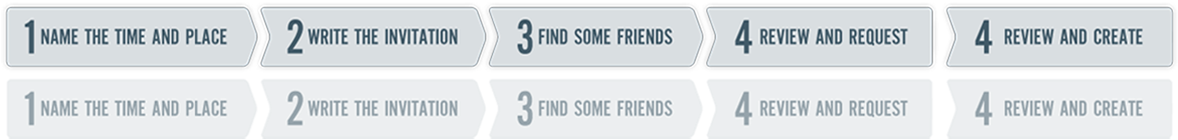
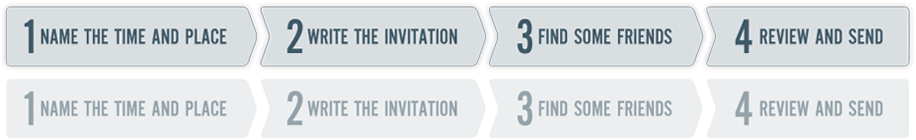
Updated party creation nav. Made nav images into links

Changed region(s): [[0.0, 0.0286, 1.0, 0.4857], [0.0, 0.6571, 0.9782, 0.9143]]

diff --git a/static/css/winedora.css b/static/css/winedora.css
@@ -449,56 +449,91 @@ table .row-label-bold {
     background: url('../img/btn_pie_from225.png') no-repeat right top;
  }
  
-.menu_wrap.partycrumb ul.nav, .menu_wrap.partycrumb ul.nav li {
-  /*margin: 10px 0;*/
-  height: 76px;
+ .partycrumb {
+  text-align: center;
+  padding-top: 20px;
 }
 
-/*.menu_wrap.partycrumb ul.nav li a { 
-  padding: 100px 90px;
+.partycrumb ul.nav li {
+  display: inline;
+  margin-right: 20px;
+}
+
+.partycrumb.main {
+  padding-top: 0;
+}
+
+/* shop */
+
+.partycrumb.main ul.nav, .partycrumb.main ul.nav li {
+    height: 76px;
+    margin: 0;
+    padding: 0;
+}
+
+.partycrumb.main ul.nav li { 
+  display: inline-block;
+}
+
+.partycrumb.main ul.nav li a { 
+  padding: 1px 20px 20px 20px;
   margin-top: -2px;
 }
-*/
-/*
-.partycrumb li {
-  height: 76px;
-}
-*/
-.party-add {
+
+#party_add {
   background: url('../img/create_party_nav.png') no-repeat 0 -72px; 
   width: 257px;
 }
-.party-write-invitation {
+#party_add a{
+  padding: 0px 130px 50px 126px;
+}
+#party_write_invitation {
   background: url('../img/create_party_nav.png') no-repeat -261px -72px; 
   width: 226px;
 }
-.party-invite-friends {
+#party_write_invitation a {
+  padding: 0px 110px 50px 115px;
+}
+#party_invite_friends {
   background: url('../img/create_party_nav.png') no-repeat -489px -72px; 
   width: 215px;
+}
+#party_invite_friends a{
+  padding: 0px 110px 50px 105px;
 }
 .party-review-request {
   background: url('../img/create_party_nav.png') no-repeat -706px -72px; 
   width: 227px;
 }
-.party-review-create {
-  background: url('../img/create_party_nav.png') no-repeat -946px -72px; 
-  width: 227px;
+#party_review_create {
+  background: url('../img/create_party_nav.png') no-repeat -706px -72px; 
+  width: 204px;
+}
+#party_review_create a{
+  padding: 0px 102px 50px 102px;
 }
 
-.party-add.active {
-  background-position: 0 0;
+
+#party_add a:hover, 
+#party_add.active {
+  background: url('../img/create_party_nav.png') no-repeat 0 0;
 }
-.party-write-invitation.active {
-  background-position: -261px 0; 
+#party_write_invitation a:hover, 
+#party_write_invitation.active {
+  background: url('../img/create_party_nav.png') no-repeat -261px 0; 
 }
-.party-invite-friends.active {
-  background-position: -489px 0; 
+#party_invite_friends a:hover, 
+#party_invite_friends.active {
+  background: url('../img/create_party_nav.png') no-repeat -489px 0; 
 }
-.party-review-request.active {
-  background-position: -706px 0; 
+#party_review_request a:hover, 
+#party_review_request.active {
+  background: url('../img/create_party_nav.png') no-repeat -706px 0; 
 }
-.party-review-create.active {
-  background-position: -946px 0; 
+#party_review_create a:hover, 
+#party_review_create.active {
+  /*background-position: -946px 0; */
+  background: url('../img/create_party_nav.png') no-repeat -706px 0; 
 }
 
 /*

diff --git a/main/templates/main/party_review_request.html b/main/templates/main/party_review_request.html
@@ -37,16 +37,12 @@
 {% endblock header %}
 
 {% block content %}
-  <div class="menu_wrap main partycrumb">
+  <div class="partycrumb main">
     <ul class="nav">
-      <li class="party-add">&nbsp;</li>
-      <li class="party-write-invitation">&nbsp;</li>
-      <li class="party-invite-friends">&nbsp;</li>
-      {% if pro or user.get_profile.events_manager %}
-        <li class="party-review-create active">&nbsp;</li>
-      {% else %}
-        <li class="party-review-request active">&nbsp;</li>
-      {% endif %}
+      <li id="party_add"><a href="{% url party_add party.id %}" title="Edit Party details"></a></li>
+      <li id="party_write_invitation"><a href="{% url party_write_invitation party.id %}" title="Customize Invitations"></a></li>
+      <li id="party_invite_friends"><a href="{% url party_find_friends party.id %}" title="Find some friends"></a></li>
+      <li id="party_review_create" class="active">&nbsp;</li>
     </ul>
   </div>
   <div class="container" data-spy="scroll" data-offset="50" data-target=".subnav">

diff --git a/main/templates/main/party_find_friends.html b/main/templates/main/party_find_friends.html
@@ -20,16 +20,12 @@
 {% endblock header %}
 
 {% block content %}
-  <div class="menu_wrap main partycrumb">
+  <div class="partycrumb main">
     <ul class="nav">
-      <li class="party-add">&nbsp;</li>
-      <li class="party-write-invitation">&nbsp;</li>
-      <li class="party-invite-friends active">&nbsp;</li>
-      {% if pro or user.get_profile.events_manager %}
-        <li class="party-review-create">&nbsp;</li>
-      {% else %}
-        <li class="party-review-request">&nbsp;</li>
-      {% endif %}
+      <li id="party_add"><a href="{% url party_add party.id %}" title="Edit Party details"></a></li>
+      <li id="party_write_invitation"><a href="{% url party_write_invitation party.id %}" title="Customize Invitations"></a></li>
+      <li id="party_invite_friends" class="active">&nbsp;</li>
+      <li id="party_review_create">&nbsp;</li>
     </ul>
   </div>
 

diff --git a/main/templates/main/party_customize_invite.html b/main/templates/main/party_customize_invite.html
@@ -33,16 +33,12 @@
 
 {% block content %}
   {% if not party.confirmed %}
-  <div class="menu_wrap main partycrumb">
+  <div class="partycrumb main">
     <ul class="nav">
-      <li class="party-add">&nbsp;</li>
-      <li class="party-write-invitation active">&nbsp;</li>
-      <li class="party-invite-friends">&nbsp;</li>
-      {% if pro or user.get_profile.events_manager %}
-        <li class="party-review-create">&nbsp;</li>
-      {% else %}
-        <li class="party-review-request">&nbsp;</li>
-      {% endif %}
+      <li id="party_add"><a href="{% url party_add party.id %}" title="Edit Party details"></a></li>
+      <li id="party_write_invitation" class="active">&nbsp;</li>
+      <li id="party_invite_friends">&nbsp;</li>
+      <li id="party_review_create">&nbsp;</li>
     </ul>
   </div>
   {% endif %}

diff --git a/main/templates/main/party_add.html b/main/templates/main/party_add.html
@@ -32,16 +32,12 @@
 {% block content %}
 
 {% if self_hosting %}
-  <div class="menu_wrap main partycrumb">
+  <div class="partycrumb main">
     <ul class="nav">
-      <li class="party-add active">&nbsp;</li>
-      <li class="party-write-invitation">&nbsp;</li>
-      <li class="party-invite-friends">&nbsp;</li>
-      {% if pro or user.get_profile.events_manager %}
-        <li class="party-review-create">&nbsp;</li>
-      {% else %}
-        <li class="party-review-request">&nbsp;</li>
-      {% endif %}
+      <li id="party_add" class="active">&nbsp;</li>
+      <li id="party_write_invitation">&nbsp;</li>
+      <li id="party_invite_friends">&nbsp;</li>
+      <li id="party_review_create">&nbsp;</li>
     </ul>
   </div>
 {% endif %}

diff --git a/main/forms.py b/main/forms.py
@@ -94,21 +94,21 @@ class PartyCreateForm(forms.ModelForm):
       self.fields['event_time'].widget.attrs['class'] = ''
 
   def clean_event_date(self):
-    if self.instance:
+    if self.instance.event_date:
       event_date = timezone.localtime(self.instance.event_date)
     else:
       event_date = self.cleaned_data['event_date']
     return event_date
 
   def clean_event_day(self):
-    if self.instance:
+    if self.instance.event_date:
       event_day = timezone.localtime(self.instance.event_date).date()
     else:
       event_day = self.cleaned_data['event_day']
     return event_day
 
   def clean_event_time(self):
-    if self.instance:
+    if self.instance.event_date:
       event_time = timezone.localtime(self.instance.event_date).time()
     else:
       event_time = self.cleaned_data['event_time']
